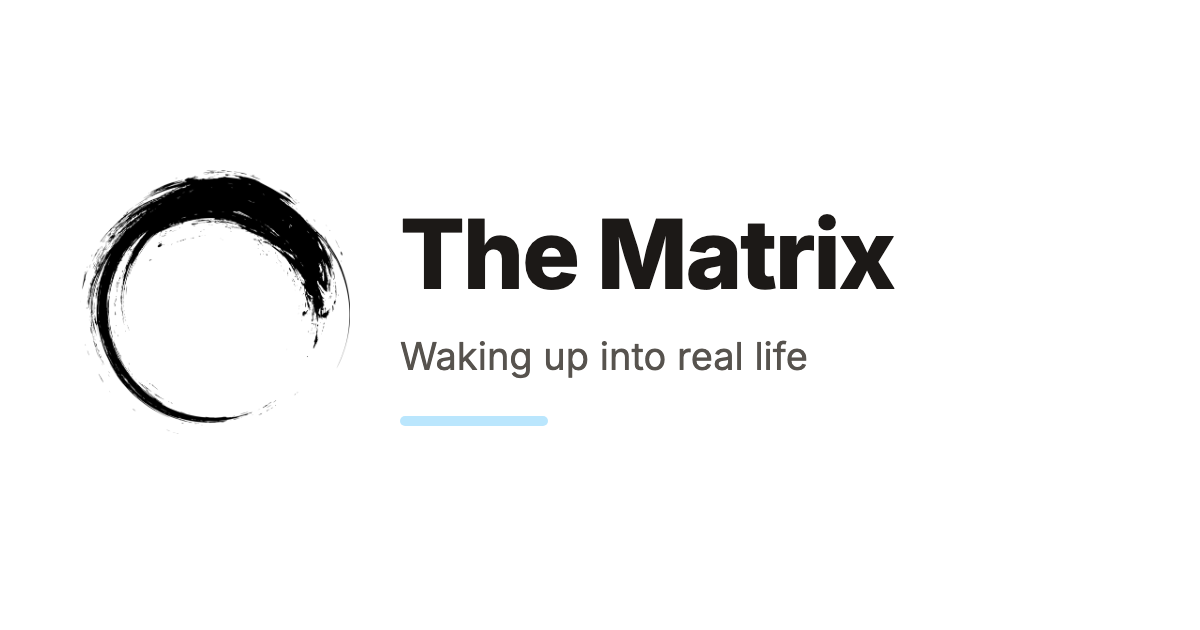
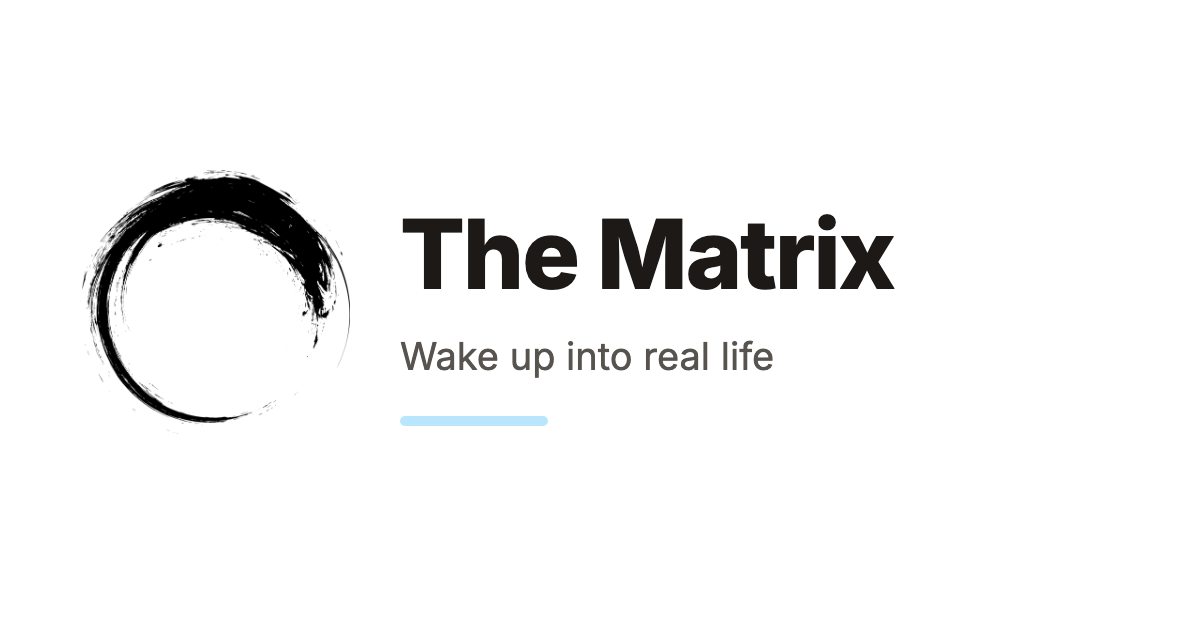
build

Changed region(s): [[0.4008, 0.5429, 0.6783, 0.6032]]

diff --git a/ru/the-matrix.html b/ru/the-matrix.html
@@ -18,8 +18,8 @@
 <title>Матрица | tellothers.com</title>
 <meta property="og:title" content="Матрица" />
 <meta property="og:locale" content="ru_RU" />
-<meta name="description" content="Пробуждаешься в настоящую жизнь. В Матрице реальность — грустный мир, где воюют с роботами. И по сюжету мир революционеров — тоже матрица, выхода нет." />
-<meta property="og:description" content="Пробуждаешься в настоящую жизнь. В Матрице реальность — грустный мир, где воюют с роботами. И по сюжету мир революционеров — тоже матрица, выхода нет." />
+<meta name="description" content="Пробуждайся в настоящую жизнь. В Матрице реальность — грустный мир, где воюют с роботами. И по сюжету мир революционеров — тоже матрица, выхода нет." />
+<meta property="og:description" content="Пробуждайся в настоящую жизнь. В Матрице реальность — грустный мир, где воюют с роботами. И по сюжету мир революционеров — тоже матрица, выхода нет." />
 <link rel="canonical" href="https://tellothers.com/ru/the-matrix" />
 <meta property="og:url" content="https://tellothers.com/ru/the-matrix" />
 <meta property="og:site_name" content="tellothers.com" />
@@ -103,7 +103,7 @@
     </h1>
 
       <p class="text-lg sm:text-xl text-stone-500 leading-snug">
-        Пробуждаешься в настоящую жизнь
+        Пробуждайся в настоящую жизнь
       </p>
   </header>
 
@@ -133,12 +133,12 @@
   "@type": "Article",
   "name": "Матрица",
   "headline": "Матрица",
-  "description": "Пробуждаешься в настоящую жизнь",
+  "description": "Пробуждайся в настоящую жизнь",
   "url": "https://tellothers.com/ru/the-matrix",
   "mainEntityOfPage": "https://tellothers.com/ru/the-matrix",
   "image": "https://tellothers.com/images/og/the-matrix.ru.png",
   "datePublished": "2026-10-04T20:38:21+07:00",
-  "dateModified": "2026-10-28T19:39:22+07:00",
+  "dateModified": "2026-10-28T19:57:23+07:00",
   "inLanguage": "ru",
   "isPartOf": {
     "@type": "WebSite",

diff --git a/the-matrix.html b/the-matrix.html
@@ -18,8 +18,8 @@
 <title>The Matrix | tellothers.com</title>
 <meta property="og:title" content="The Matrix" />
 <meta property="og:locale" content="en_US" />
-<meta name="description" content="Waking up into real life. In The Matrix, reality is a grim world at war with machines. And going by the plot, the rebels&#39; world is a matrix too — no way out." />
-<meta property="og:description" content="Waking up into real life. In The Matrix, reality is a grim world at war with machines. And going by the plot, the rebels&#39; world is a matrix too — no way out." />
+<meta name="description" content="Wake up into real life. In The Matrix, reality is a grim world at war with machines. And going by the plot, the rebels&#39; world is a matrix too — no way out." />
+<meta property="og:description" content="Wake up into real life. In The Matrix, reality is a grim world at war with machines. And going by the plot, the rebels&#39; world is a matrix too — no way out." />
 <link rel="canonical" href="https://tellothers.com/the-matrix" />
 <meta property="og:url" content="https://tellothers.com/the-matrix" />
 <meta property="og:site_name" content="tellothers.com" />
@@ -103,7 +103,7 @@
     </h1>
 
       <p class="text-lg sm:text-xl text-stone-500 leading-snug">
-        Waking up into real life
+        Wake up into real life
       </p>
   </header>
 
@@ -133,12 +133,12 @@
   "@type": "Article",
   "name": "The Matrix",
   "headline": "The Matrix",
-  "description": "Waking up into real life",
+  "description": "Wake up into real life",
   "url": "https://tellothers.com/the-matrix",
   "mainEntityOfPage": "https://tellothers.com/the-matrix",
   "image": "https://tellothers.com/images/og/the-matrix.en.png",
   "datePublished": "2026-10-04T20:38:21+07:00",
-  "dateModified": "2026-10-28T19:39:22+07:00",
+  "dateModified": "2026-10-28T19:57:23+07:00",
   "inLanguage": "en",
   "isPartOf": {
     "@type": "WebSite",

diff --git a/ru/index.html b/ru/index.html
@@ -25,7 +25,7 @@
 <meta property="og:site_name" content="tellothers.com" />
 <meta property="og:image" content="https://tellothers.com/images/og-ru.png" />
 <meta property="og:type" content="article" />
-<meta property="article:published_time" content="2026-10-28T05:39:36-07:00" />
+<meta property="article:published_time" content="2026-10-28T05:57:33-07:00" />
 <meta name="twitter:card" content="summary_large_image" />
 <meta property="twitter:image" content="https://tellothers.com/images/og-ru.png" />
 <meta property="twitter:title" content="Сработало? Скажи другим." />
@@ -661,7 +661,7 @@
 
     <a href="/ru/the-matrix" class="group block no-underline rounded-lg hover:bg-white p-4 transition-all duration-700 ease-out hover:shadow-lg hover:shadow-stone-900/5">
   <div class="font-sans font-bold text-stone-800 group-hover:text-stone-950 transition duration-700">Матрица</div>
-    <div class="mt-1 text-sm text-stone-600 leading-snug transition duration-700">Пробуждаешься в настоящую жизнь</div>
+    <div class="mt-1 text-sm text-stone-600 leading-snug transition duration-700">Пробуждайся в настоящую жизнь</div>
 </a>
 
 

diff --git a/index.html b/index.html
@@ -25,7 +25,7 @@
 <meta property="og:site_name" content="tellothers.com" />
 <meta property="og:image" content="https://tellothers.com/images/og-en.png" />
 <meta property="og:type" content="article" />
-<meta property="article:published_time" content="2026-10-28T05:39:36-07:00" />
+<meta property="article:published_time" content="2026-10-28T05:57:33-07:00" />
 <meta name="twitter:card" content="summary_large_image" />
 <meta property="twitter:image" content="https://tellothers.com/images/og-en.png" />
 <meta property="twitter:title" content="It worked? Tell others." />
@@ -661,7 +661,7 @@
 
     <a href="/the-matrix" class="group block no-underline rounded-lg hover:bg-white p-4 transition-all duration-700 ease-out hover:shadow-lg hover:shadow-stone-900/5">
   <div class="font-sans font-bold text-stone-800 group-hover:text-stone-950 transition duration-700">The Matrix</div>
-    <div class="mt-1 text-sm text-stone-600 leading-snug transition duration-700">Waking up into real life</div>
+    <div class="mt-1 text-sm text-stone-600 leading-snug transition duration-700">Wake up into real life</div>
 </a>
 
 

diff --git a/ru/a-scanner-darkly.html b/ru/a-scanner-darkly.html
@@ -151,7 +151,7 @@
       <div class="grid sm:grid-cols-2 gap-3 -mx-4">
             <a href="/ru/the-matrix" class="group block no-underline rounded-lg hover:bg-white p-4 transition-all duration-700 ease-out hover:shadow-lg hover:shadow-stone-900/5">
   <div class="font-sans font-bold text-stone-800 group-hover:text-stone-950 transition duration-700">Матрица</div>
-    <div class="mt-1 text-sm text-stone-600 leading-snug transition duration-700">Пробуждаешься в настоящую жизнь</div>
+    <div class="mt-1 text-sm text-stone-600 leading-snug transition duration-700">Пробуждайся в настоящую жизнь</div>
 </a>
 
             <a href="/ru/generation-p" class="group block no-underline rounded-lg hover:bg-white p-4 transition-all duration-700 ease-out hover:shadow-lg hover:shadow-stone-900/5">

diff --git a/ru/watch.html b/ru/watch.html
@@ -153,7 +153,7 @@
 
             <a href="/ru/the-matrix" class="group block no-underline rounded-lg hover:bg-white p-4 transition-all duration-700 ease-out hover:shadow-lg hover:shadow-stone-900/5">
   <div class="font-sans font-bold text-stone-800 group-hover:text-stone-950 transition duration-700">Матрица</div>
-    <div class="mt-1 text-sm text-stone-600 leading-snug transition duration-700">Пробуждаешься в настоящую жизнь</div>
+    <div class="mt-1 text-sm text-stone-600 leading-snug transition duration-700">Пробуждайся в настоящую жизнь</div>
 </a>
 
             <a href="/ru/the-life-of-chuck" class="group block no-underline rounded-lg hover:bg-white p-4 transition-all duration-700 ease-out hover:shadow-lg hover:shadow-stone-900/5">

diff --git a/ru/cyberpunk-edgerunners.html b/ru/cyberpunk-edgerunners.html
@@ -156,7 +156,7 @@
 
             <a href="/ru/the-matrix" class="group block no-underline rounded-lg hover:bg-white p-4 transition-all duration-700 ease-out hover:shadow-lg hover:shadow-stone-900/5">
   <div class="font-sans font-bold text-stone-800 group-hover:text-stone-950 transition duration-700">Матрица</div>
-    <div class="mt-1 text-sm text-stone-600 leading-snug transition duration-700">Пробуждаешься в настоящую жизнь</div>
+    <div class="mt-1 text-sm text-stone-600 leading-snug transition duration-700">Пробуждайся в настоящую жизнь</div>
 </a>
 
             <a href="/ru/a-scanner-darkly" class="group block no-underline rounded-lg hover:bg-white p-4 transition-all duration-700 ease-out hover:shadow-lg hover:shadow-stone-900/5">

diff --git a/ru/question-reality.html b/ru/question-reality.html
@@ -181,7 +181,7 @@
 
             <a href="/ru/the-matrix" class="group block no-underline rounded-lg hover:bg-white p-4 transition-all duration-700 ease-out hover:shadow-lg hover:shadow-stone-900/5">
   <div class="font-sans font-bold text-stone-800 group-hover:text-stone-950 transition duration-700">Матрица</div>
-    <div class="mt-1 text-sm text-stone-600 leading-snug transition duration-700">Пробуждаешься в настоящую жизнь</div>
+    <div class="mt-1 text-sm text-stone-600 leading-snug transition duration-700">Пробуждайся в настоящую жизнь</div>
 </a>
 
             <a href="/ru/satori" class="group block no-underline rounded-lg hover:bg-white p-4 transition-all duration-700 ease-out hover:shadow-lg hover:shadow-stone-900/5">

diff --git a/a-scanner-darkly.html b/a-scanner-darkly.html
@@ -151,7 +151,7 @@
       <div class="grid sm:grid-cols-2 gap-3 -mx-4">
             <a href="/the-matrix" class="group block no-underline rounded-lg hover:bg-white p-4 transition-all duration-700 ease-out hover:shadow-lg hover:shadow-stone-900/5">
   <div class="font-sans font-bold text-stone-800 group-hover:text-stone-950 transition duration-700">The Matrix</div>
-    <div class="mt-1 text-sm text-stone-600 leading-snug transition duration-700">Waking up into real life</div>
+    <div class="mt-1 text-sm text-stone-600 leading-snug transition duration-700">Wake up into real life</div>
 </a>
 
             <a href="/generation-p" class="group block no-underline rounded-lg hover:bg-white p-4 transition-all duration-700 ease-out hover:shadow-lg hover:shadow-stone-900/5">

diff --git a/watch.html b/watch.html
@@ -153,7 +153,7 @@
 
             <a href="/the-matrix" class="group block no-underline rounded-lg hover:bg-white p-4 transition-all duration-700 ease-out hover:shadow-lg hover:shadow-stone-900/5">
   <div class="font-sans font-bold text-stone-800 group-hover:text-stone-950 transition duration-700">The Matrix</div>
-    <div class="mt-1 text-sm text-stone-600 leading-snug transition duration-700">Waking up into real life</div>
+    <div class="mt-1 text-sm text-stone-600 leading-snug transition duration-700">Wake up into real life</div>
 </a>
 
             <a href="/the-life-of-chuck" class="group block no-underline rounded-lg hover:bg-white p-4 transition-all duration-700 ease-out hover:shadow-lg hover:shadow-stone-900/5">

diff --git a/cyberpunk-edgerunners.html b/cyberpunk-edgerunners.html
@@ -156,7 +156,7 @@
 
             <a href="/the-matrix" class="group block no-underline rounded-lg hover:bg-white p-4 transition-all duration-700 ease-out hover:shadow-lg hover:shadow-stone-900/5">
   <div class="font-sans font-bold text-stone-800 group-hover:text-stone-950 transition duration-700">The Matrix</div>
-    <div class="mt-1 text-sm text-stone-600 leading-snug transition duration-700">Waking up into real life</div>
+    <div class="mt-1 text-sm text-stone-600 leading-snug transition duration-700">Wake up into real life</div>
 </a>
 
             <a href="/a-scanner-darkly" class="group block no-underline rounded-lg hover:bg-white p-4 transition-all duration-700 ease-out hover:shadow-lg hover:shadow-stone-900/5">

diff --git a/question-reality.html b/question-reality.html
@@ -181,7 +181,7 @@
 
             <a href="/the-matrix" class="group block no-underline rounded-lg hover:bg-white p-4 transition-all duration-700 ease-out hover:shadow-lg hover:shadow-stone-900/5">
   <div class="font-sans font-bold text-stone-800 group-hover:text-stone-950 transition duration-700">The Matrix</div>
-    <div class="mt-1 text-sm text-stone-600 leading-snug transition duration-700">Waking up into real life</div>
+    <div class="mt-1 text-sm text-stone-600 leading-snug transition duration-700">Wake up into real life</div>
 </a>
 
             <a href="/satori" class="group block no-underline rounded-lg hover:bg-white p-4 transition-all duration-700 ease-out hover:shadow-lg hover:shadow-stone-900/5">
